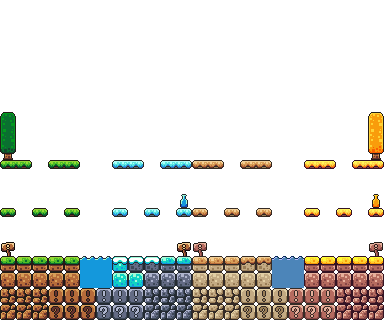
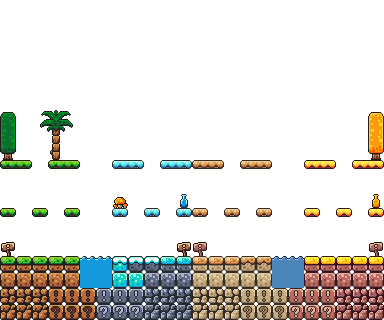
added world5

Changed region(s): [[0.0938, 0.3438, 0.1875, 0.5], [0.2812, 0.625, 0.3438, 0.6562]]

diff --git a/images/world_tileset.tsx b/images/world_tileset.tsx
@@ -1,0 +1,4 @@
+<?xml version="1.0" encoding="UTF-8"?>
+<tileset version="1.10" tiledversion="1.11.2" name="world_tileset" tilewidth="16" tileheight="16" tilecount="256" columns="16">
+ <image source="brackeys_platformer_assets/brackeys_platformer_assets/sprites/world_tileset.png" width="256" height="256"/>
+</tileset>

diff --git a/images/platforms.tsx b/images/platforms.tsx
@@ -1,0 +1,4 @@
+<?xml version="1.0" encoding="UTF-8"?>
+<tileset version="1.10" tiledversion="1.11.2" name="platforms" tilewidth="16" tileheight="16" tilecount="16" columns="4">
+ <image source="brackeys_platformer_assets/brackeys_platformer_assets/sprites/platforms.png" width="64" height="64"/>
+</tileset>

diff --git a/World5.java b/World5.java
@@ -16,14 +16,17 @@ public class World5 extends World
     public World5(Player player)
     {    
         // Create a new world with 600x400 cells with a cell size of 1x1 pixels.
-        super(600, 400, 1, false); 
+        super(785, 448, 1, false); 
+        setBackground("world5.png");
+        
         
         prepare(player);
     }
     
     private void prepare(Player player)
     {
-        addObject(player, 50, 50);
+        addObject(player, 520, 288);
+        for(int i = 0; i < 5; i++)addObject(new platforms1(), 520, 296 + i * 16);
     }
     private boolean resetting = false;
     public void act()
